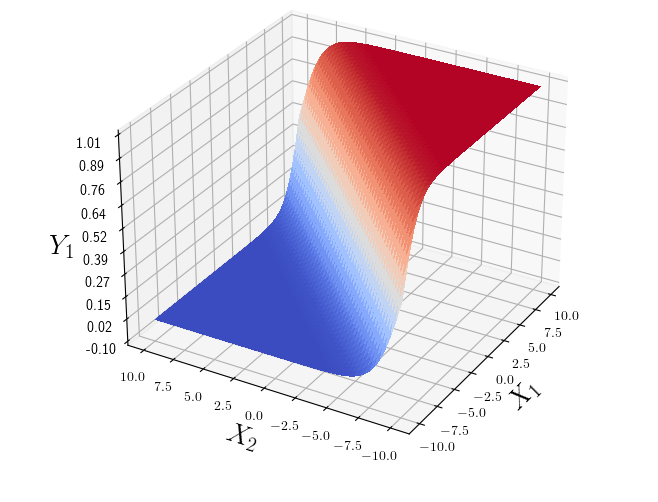
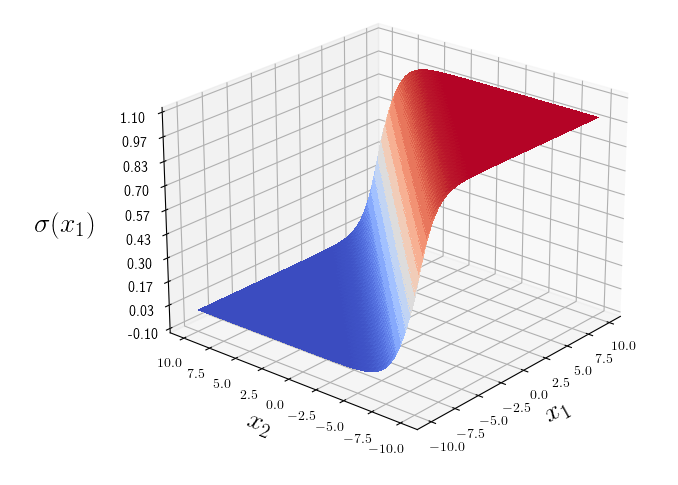
softmax

Changed region(s): [[0.0608, 0.0309, 0.9119, 0.9278], [0.8815, 0.6804, 0.9422, 0.7423], [0.8511, 0.7423, 0.8815, 0.7732]]

diff --git a/src/plot.py b/src/plot.py
@@ -18,15 +18,15 @@ surf = ax.plot_surface(X, Y, Z, cmap=cm.coolwarm,
                        linewidth=0, antialiased=False)
 
 # Customize the z axis.
-ax.set_zlim(-0.1, 1.01)
+ax.set_zlim(-0.1, 1.1)
 ax.zaxis.set_major_locator(LinearLocator(10))
 # A StrMethodFormatter is used automatically
 ax.zaxis.set_major_formatter('{x:.02f}')
 
-ax.set_xlabel(r'$X_{1}$', fontsize=20)
-ax.set_ylabel(r'$X_{2}$', fontsize=20)
+ax.set_xlabel(r'$x_{1}$', fontsize=20)
+ax.set_ylabel(r'$x_{2}$', fontsize=20)
 ax.zaxis.set_rotate_label(False)
-ax.set_zlabel(r'$Y_{1}$', fontsize=20, rotation=0)
+ax.set_zlabel(r'$\sigma(x_{1})$', fontsize=20, rotation=0, labelpad=20)
 
 # Add a color bar which maps values to colors.
 #fig.colorbar(surf, shrink=0.5, aspect=10)

diff --git a/_posts/2021-05-26-Softmax.md b/_posts/2021-05-26-Softmax.md
@@ -24,7 +24,11 @@ x_{1} & x_{2} & \ldots & x_{M} \\
 $$
 
 
-### Plot of $$y_{1} = \sigma {x_{1}} = \frac {e^{x_{1}}} {e^{x_{1} + e^{x_{2}}}$$
+### Plot of $$ \sigma {(x_{1})} $$
+
+$$
+\sigma {(x_{1})} = \frac {e^{x_{1}}} {e^{x_{1}} + e^{x_{2}}}
+$$
 
 ![softmax]({{ site.url }}/images/softmax.png)
 
